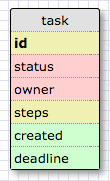
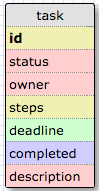
Database created, seed created

diff --git a/db/schema.rb b/db/schema.rb
@@ -11,7 +11,7 @@
 #
 # It's strongly recommended that you check this file into your version control system.
 
-ActiveRecord::Schema.define(version: 20150616132740) do
+ActiveRecord::Schema.define(version: 20150616142055) do
 
   # These are extensions that must be enabled in order to support this database
   enable_extension "plpgsql"
@@ -20,11 +20,11 @@ ActiveRecord::Schema.define(version: 20150616132740) do
     t.string   "status"
     t.string   "owner"
     t.integer  "steps"
-    t.date     "created"
     t.date     "deadline"
     t.boolean  "completed"
-    t.datetime "created_at", null: false
-    t.datetime "updated_at", null: false
+    t.text     "description"
+    t.datetime "created_at",  null: false
+    t.datetime "updated_at",  null: false
   end
 
 end

diff --git a/db/seeds.rb b/db/seeds.rb
@@ -6,3 +6,11 @@
 #   cities = City.create([{ name: 'Chicago' }, { name: 'Copenhagen' }])
 #   Mayor.create(name: 'Emanuel', city: cities.first)
 
+20.times do
+  Task.create(status: %w(ToDo Complete Out In Defer).sample,
+              owner: Faker::Name.name,
+              steps: (rand(14) + 1),
+              deadline: Faker::Date.forward(50),
+              completed: [true, false].sample,
+              description: Faker::Hacker.say_something_smart)
+end

diff --git a/db/migrate/20150616142055_create_tasks.rb b/db/migrate/20150616142055_create_tasks.rb
@@ -4,9 +4,9 @@ class CreateTasks < ActiveRecord::Migration
       t.string :status
       t.string :owner
       t.integer :steps
-      t.date :created
       t.date :deadline
       t.boolean :completed
+      t.text :description
 
       t.timestamps null: false
     end
